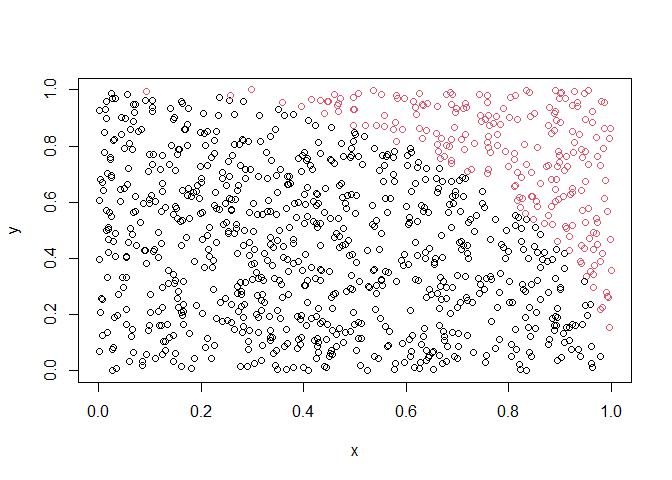
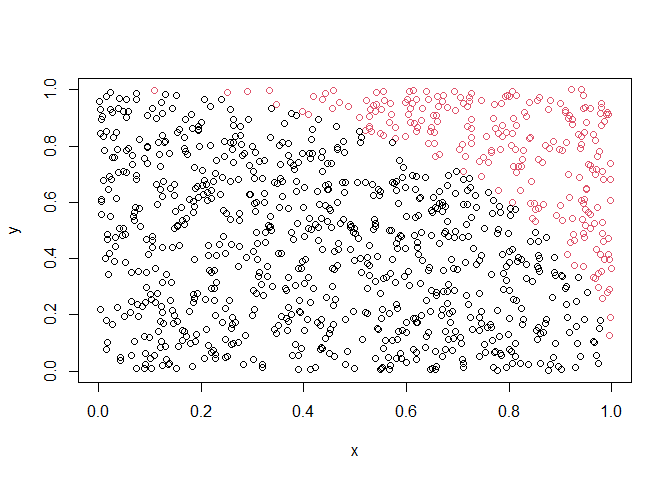
updated skratch

Changed region(s): [[0.125, 0.1875, 0.9062, 0.7812], [0.7188, 0.8438, 0.7812, 0.875], [0.0625, 0.75, 0.0938, 0.8125]]

diff --git a/README.md b/README.md
@@ -50,7 +50,7 @@ Just needed to switch the formula to pi:
 knitr::include_graphics("IMG_20210518_190917.jpg")
 ```
 
-<img src="IMG_20210518_190917.jpg" width="4608" />
+<img src="IMG_20210518_190917.jpg" width="40%" />
 
 Result of 1000 dots is:
 
@@ -61,5 +61,5 @@ Result of 1000 dots is:
 num <- length(check[check == "inner"]) * ((2*r)^2)
 denum <- length(check)
 (pi <- num/denum/r^2)
-#> [1] 3.108
+#> [1] 3.06
 ```
